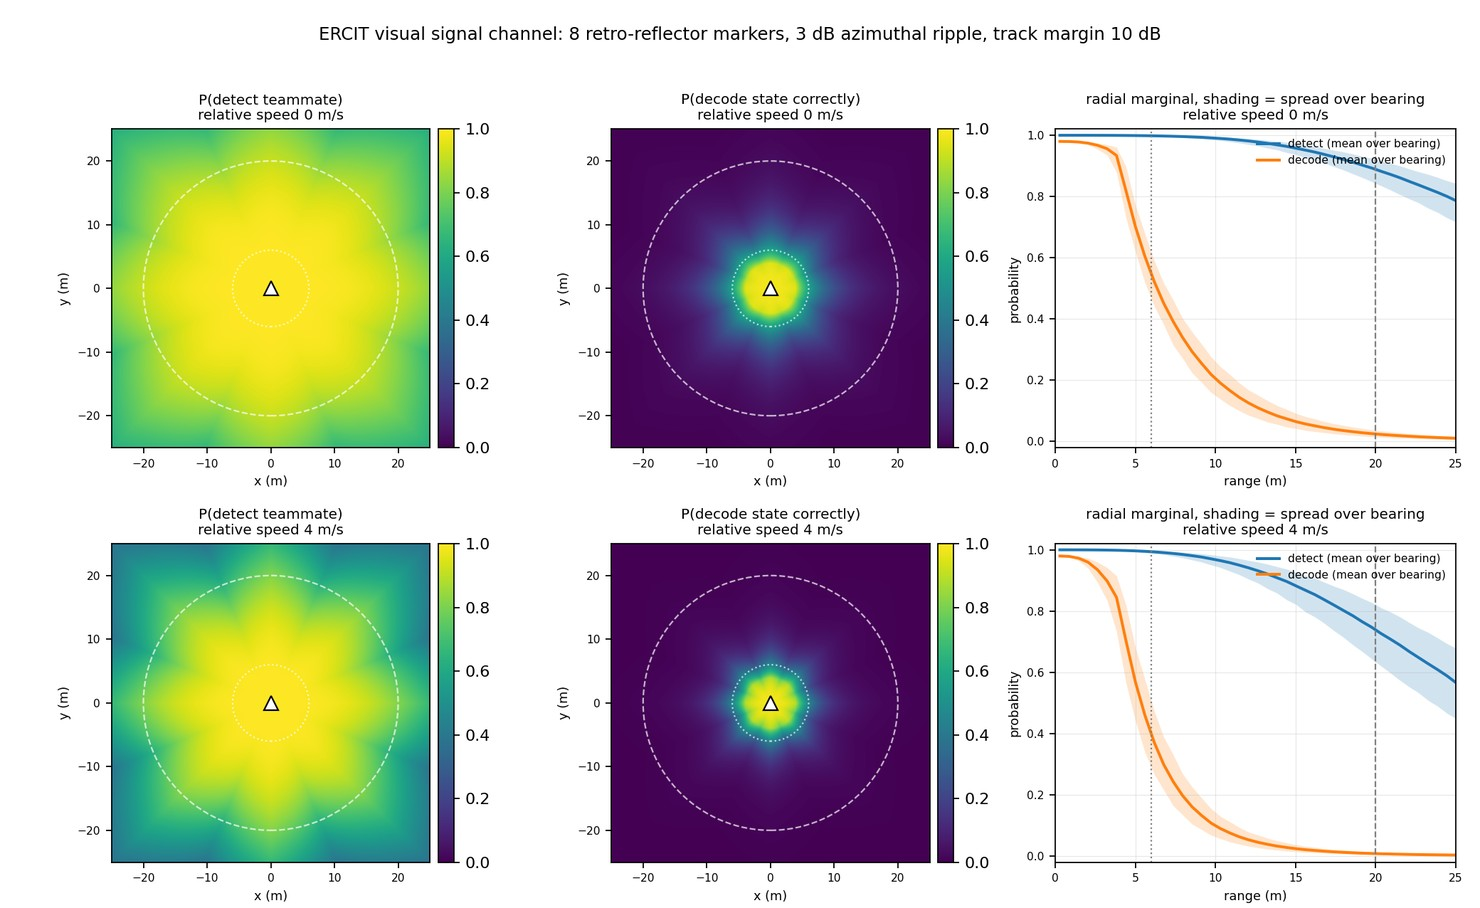
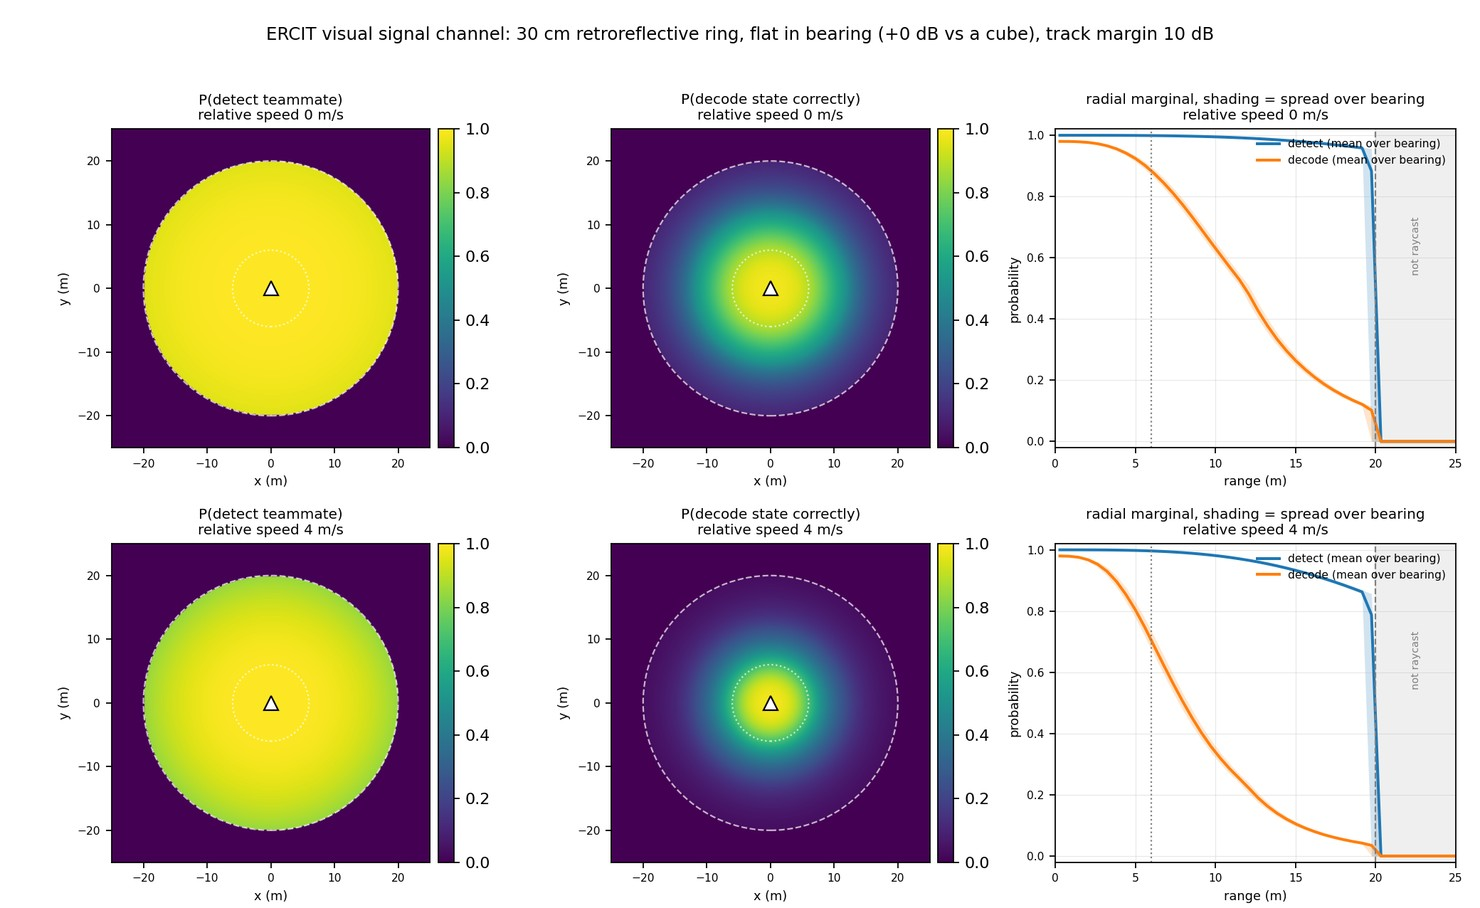
research update

diff --git a/index.html b/index.html
@@ -146,6 +146,7 @@ li::marker{color:var(--blue)}
 figure{margin:24px 0;background:var(--blue-soft);border:1px solid var(--rule);
   border-radius:3px;overflow:hidden}
 figure img{display:block;width:100%;height:auto;background:#fff}
+figure svg{display:block;width:100%;height:auto;padding:14px 10px 6px;background:var(--blue-soft)}
 figcaption{font-family:"IBM Plex Mono",ui-monospace,monospace;font-size:12px;
   line-height:1.6;color:var(--ink-2);padding:11px 15px;background:var(--blue-soft);
   border-top:1px solid var(--rule)}
@@ -303,9 +304,9 @@ footer{position:relative;border-top:4px solid transparent;
     <div>
   <h2>Embodied LiDAR Signaling for RF-Silent Multi-Robot Persistent Search and Revisit</h2>
 
-  <p>In mass-casualty incidents and search-and-rescue operations, initial assessment and triage are time constrained and often take place in dangerous, occluded environments. Autonomous robots are well suited to survey collapsed structures, disaster zones, and contested areas ahead of responders, but only if they can deploy without infrastructure, coordinate efficiently, and keep operating when communications are degraded or denied.</p>
+  <p>In mass-casualty and search-and-rescue incidents, triage is time constrained and happens in dangerous, occluded places. Robots are well suited to survey them ahead of responders, but only if they deploy without infrastructure and keep working when communications are denied.</p>
 
-  <p>This thesis investigates whether a team of LiDAR-equipped aerial robots can cooperatively perform a persistent triage task, searching an unknown, obstructed, GPS- and radio-denied area for many casualties and repeatedly revisiting them for continuous health monitoring, coordinating only through a physical, LiDAR-based signaling channel and world-model-based reasoning.</p>
+  <p>This thesis focuses on how a team of LiDAR-equipped aerial robots can search a GPS- and radio-denied area for casualties and keep revisiting them to monitor their condition, coordinating through a physical signaling channel rather than radio, which removes the RF signature that enables geolocation. The research is centered on whether a decentralized, model-based learner can exploit a coordination signal that is sparse, short-range and frequently wrong. The signals and their detection are modeled using detection theory with the aim of being physically accurate, but not precise.</p>
 
   <figure>
     <div class="scroll-x"><img src="img/lidar_sense.png" alt="Three panels showing simulated agents in a procedurally generated cave arena, each casting a LiDAR ray fan that stops at walls, with visible and hidden targets marked." loading="lazy"></div>
@@ -314,37 +315,145 @@ footer{position:relative;border-top:4px solid transparent;
 
   <p>This agent coordination problem was inspired by my work during the DARPA Triage Challenge, where setup was only allocated 20 minutes, required numerous cables and computers, and was prone to failure and gaps in communication. An autonomous drone could identify patient locations but lacked the ability to communicate them, interfering with our drones’ ability to coordinate with teaming robots. The communication infrastructure was time consuming, profoundly affected our UAV and UGV coordination and performance, and at times negated our autonomy during outages.</p>
 
-  <p>This research focuses on a physically grounded signaling-and-inference system for multi-agent coordination. Each robot carries retro-reflective markers that when switched periodically can encode a small discrete vocabulary as a temporal blink pattern visible to its teammates via LiDAR. I am investigating how a multi-agent deep reinforcement learning framework built on a DreamerV3-style Recurrent State-Space Model learns jointly to move, to signal, and to infer each observable teammate's intent from their observed signals and positions. I chose to use a model-based algorithm because encounters between teaming robots are sparse and therefore demand sample efficiency, and because its probabilistic latent can encode both its own localization and its teammates’ intents.</p>
+  <p>The environment places N robots in a bounded, obstructed arena holding M casualties, M far greater than N, in grouped but initially unknown locations. At that ratio the team has to divide revisit responsibility rather than sweep together.</p>
 
-  <p>How the channel is read and utilized for cooperation is bounded by detection theory. The initial probability of detecting teaming drones and their signals is simulated via expected SNR given the LiDAR and retro-reflector I chose. A retro-reflector return whose strength falls off with range drives a logistic law for whether a teammate’s marker is tracked at all, a stricter threshold for whether its blink code is decoded, and a confusion model for whether the decoded symbol is the right one. The parameters behind the probability of detection model are based on published measurements, and the beam-sampling term is measured by Monte Carlo against a simulated Ouster OS1 scan pattern.</p>
-
-  <figure class="wide">
-    <div class="scroll-x"><img src="img/channel_coverage.jpg" alt="Six panels: probability of detecting a teammate and probability of decoding its state, mapped over a fifty meter arena at zero and four meters per second of relative speed, with radial marginal curves alongside." loading="lazy"></div>
-    <figcaption>This figure explains the gap between an agent’s ability to track a teammate and its ability to read the signal that teammate is sending at different ranges. There is a bearing component because I model the retro-reflectors as eight circular cat’s-eye reflectors. At the best bearing tracking holds near 0.99 at 10 m and 0.92 at 20 m. Tracking is based on the observer’s ability to find even one LiDAR point that is reflected at a greater intensity across a window of time. Decoding <em>which</em> state a teammate is showing is already a coin flip by 6 to 7 m, because reading a precise signal frequency requires sustained observation over a time window and enough SNR for the true signal to stand out. An agent can therefore know where everyone is while receiving only intermittent information about signals. Dotted ring: 6m, casualty sensing radius. Dashed ring: 20 m, past which the simulator never raycasts teammate visibility at all.</figcaption>
-  </figure>
-
-  <figure class="wide">
-    <div class="scroll-x"><img src="img/channel_mc.jpg" alt="Two plots against closest approach distance: decoded signal to noise ratio over the decode window, and the percentage of scans returning at least one beam on the marker, each at two and four meters per second." loading="lazy"></div>
-    <figcaption>Signal SNR is not monotonic in range. It peaks near 3 m and falls off on both sides. Close in, noise grows with signal and fast movement drags the marker through several retro-reflective lobes inside the decode window. Vertical sampling also significantly limits detection at distance: a 10 cm reflector band at 20 m subtends 0.29° against 1.45° of channel spacing, so about four scans in five return nothing at all.</figcaption>
-  </figure>
-
-
-
-  <p>A team of N robots with M patients/targets, where M is much greater than N, operate in a bounded, obstructed arena in grouped but initially unknown locations. Dividing revisit responsibility is encouraged when patients greatly outnumber agents.</p>
-
-      <figure>
+  <figure>
     <img src="img/target_discovery.png" alt="A cave arena with two agents, showing five of forty-seven targets discovered and the rest still unknown." loading="lazy">
     <figcaption>Far more targets than robots. Each discovered casualty carries an idleness clock, so the team has to keep coming back rather than simply finding everything once.</figcaption>
   </figure>
 
-      <p>Agents do not have access to GPS or other sensors that correct their true location state, and never share maps. Each agent has a privately built map that is subject to drift error. An agent discovering a patient is unshared information unless the agent is within view of another agent that can detect its signaling.</p>
+  <p>Agents have no GPS or any other correction on their true pose, never share maps, and each builds its own, subject to drift. A discovery stays private unless another agent is close enough to read the signal.</p>
 
-      <figure>
+  <figure>
     <div class="scroll-x"><img src="img/belief_vs_truth.png" alt="Side by side comparison of one agent's believed occupancy map against the true arena geometry, with true and estimated agent positions marked." loading="lazy"></div>
-    <figcaption>What one agent believes, next to what is actually there. Pose comes from a drift-injecting surrogate rather than ground truth, so the map smears the way a real one does when odometry is the only thing holding the frame together.</figcaption>
+    <figcaption>What one agent believes, next to what is actually there. Pose is imperfect: noise and bias are injected rather than passed through from ground truth.</figcaption>
   </figure>
 
-  
+  <p>The signal the training environment models is a switched retro-reflective band. “Blinking” at a fixed rate, it encodes a small discrete vocabulary into the LiDAR returns that can be decoded by teammates using Fourier analysis. The vocabulary is deterministic: a found-here beacon fires on discovering casualties no one has logged, an observing beacon on refreshing one that had gone stale. How well the channel carries is set by a detection model: an expected-SNR law determines the range and accuracy.</p>
+
+  <figure class="wide">
+<svg viewBox="0 0 790 410" role="img" aria-label="The signaling airframe and its switch. Left: a quadrotor with an Ouster OS1 lidar on a mast and a 300 mm retro-reflective band around the hull. Right: a cross-section through the band wall in three states. Open, the tape faces outward over the full height. Folding, the top and bottom quarters swing outward about their hinges. Closed, the quarters lie against the middle half with their absorbent backs facing out, so no tape is visible. Switching between open and closed at a fixed rate produces the blink pattern a teammate decodes over a 1.5 second window.">
+  <defs>
+    <marker id="fb-ar" viewBox="0 0 10 10" refX="9" refY="5" markerWidth="5" markerHeight="5" orient="auto-start-reverse">
+      <path d="M0 0 L10 5 L0 10 z" fill="currentColor"/>
+    </marker>
+    <pattern id="fb-tape" width="7" height="7" patternTransform="rotate(45)" patternUnits="userSpaceOnUse">
+      <rect width="7" height="7" fill="#FFD100"/>
+      <line x1="0" y1="0" x2="0" y2="7" stroke="#A98700" stroke-width="2.4"/>
+    </pattern>
+  </defs>
+
+  <g font-family="'IBM Plex Sans',Helvetica,Arial,sans-serif" font-size="11" fill="currentColor">
+
+    <!-- ===================== AIRFRAME ===================== -->
+    <g transform="translate(22,0)">
+    <rect x="106" y="54" width="28" height="24" rx="3" fill="none" stroke="currentColor" stroke-width="1.6"/>
+    <line x1="106" y1="66" x2="134" y2="66" stroke="currentColor" stroke-width="1" stroke-dasharray="2 2"/>
+    <rect x="116" y="78" width="8" height="64" fill="none" stroke="currentColor" stroke-width="1.4"/>
+    <text x="142" y="68" font-size="10.5" opacity=".75">Ouster OS1</text>
+
+    <line x1="84" y1="144" x2="38" y2="118" stroke="currentColor" stroke-width="2.2"/>
+    <line x1="156" y1="144" x2="202" y2="118" stroke="currentColor" stroke-width="2.2"/>
+    <rect x="31" y="106" width="14" height="14" rx="2" fill="none" stroke="currentColor" stroke-width="1.5"/>
+    <rect x="195" y="106" width="14" height="14" rx="2" fill="none" stroke="currentColor" stroke-width="1.5"/>
+    <ellipse cx="38"  cy="104" rx="41" ry="4" fill="none" stroke="currentColor" stroke-width="1.6"/>
+    <ellipse cx="202" cy="104" rx="41" ry="4" fill="none" stroke="currentColor" stroke-width="1.6"/>
+
+    <line x1="100" y1="200" x2="82"  y2="286" stroke="currentColor" stroke-width="1.8"/>
+    <line x1="140" y1="200" x2="158" y2="286" stroke="currentColor" stroke-width="1.8"/>
+    <line x1="70"  y1="286" x2="94"  y2="286" stroke="currentColor" stroke-width="2.2"/>
+    <line x1="146" y1="286" x2="170" y2="286" stroke="currentColor" stroke-width="2.2"/>
+
+    <rect x="84" y="142" width="72" height="98" rx="3" fill="url(#fb-tape)" stroke="currentColor" stroke-width="1.6"/>
+    <line x1="60" y1="142" x2="60" y2="240" stroke="currentColor" stroke-width="1" marker-start="url(#fb-ar)" marker-end="url(#fb-ar)"/>
+    <text x="52" y="195" text-anchor="end" font-size="11" font-variant-numeric="tabular-nums">300 mm</text>
+
+    <text x="120" y="312" text-anchor="middle" font-size="10.5" opacity=".7">~500 mm class quadrotor</text>
+    </g>
+
+    <!-- ===================== FOLD, CROSS-SECTION ===================== -->
+    <text x="520" y="34" text-anchor="middle" font-size="11" font-weight="600" letter-spacing=".07em">SECTION THROUGH THE BAND WALL</text>
+
+    <!-- state 1 : open -->
+    <g>
+      <rect x="330" y="80" width="9"  height="150" fill="#6E767F" stroke="currentColor" stroke-width="1.2"/>
+      <rect x="339" y="80" width="7"  height="150" fill="url(#fb-tape)" stroke="currentColor" stroke-width="1.2"/>
+      <line x1="322" y1="117.5" x2="352" y2="117.5" stroke="currentColor" stroke-width="1" stroke-dasharray="3 2"/>
+      <line x1="322" y1="192.5" x2="352" y2="192.5" stroke="currentColor" stroke-width="1" stroke-dasharray="3 2"/>
+      <circle cx="330" cy="117.5" r="2.6" fill="currentColor"/>
+      <circle cx="330" cy="192.5" r="2.6" fill="currentColor"/>
+      <text x="316" y="102" text-anchor="end" font-size="10" opacity=".7">¼</text>
+      <text x="316" y="159" text-anchor="end" font-size="10" opacity=".7">½</text>
+      <text x="316" y="217" text-anchor="end" font-size="10" opacity=".7">¼</text>
+      <text x="337" y="254" text-anchor="middle" font-size="10.5" font-weight="600">open</text>
+      <text x="337" y="269" text-anchor="middle" font-size="10" opacity=".7">tape out</text>
+    </g>
+
+    <!-- state 2 : folding -->
+    <g>
+      <rect x="490" y="117.5" width="9" height="75" fill="#6E767F" stroke="currentColor" stroke-width="1.2"/>
+      <rect x="499" y="117.5" width="7" height="75" fill="url(#fb-tape)" stroke="currentColor" stroke-width="1.2"/>
+      <g transform="rotate(118 494.5 117.5)">
+        <rect x="490" y="80" width="9" height="37.5" fill="#6E767F" stroke="currentColor" stroke-width="1.2"/>
+        <rect x="499" y="80" width="7" height="37.5" fill="url(#fb-tape)" stroke="currentColor" stroke-width="1.2"/>
+      </g>
+      <g transform="rotate(-118 494.5 192.5)">
+        <rect x="490" y="192.5" width="9" height="37.5" fill="#6E767F" stroke="currentColor" stroke-width="1.2"/>
+        <rect x="499" y="192.5" width="7" height="37.5" fill="url(#fb-tape)" stroke="currentColor" stroke-width="1.2"/>
+      </g>
+      <path d="M494.5 86 A 31.5 31.5 0 0 1 522 133" fill="none" stroke="currentColor" stroke-width="1.3" marker-end="url(#fb-ar)"/>
+      <path d="M494.5 224 A 31.5 31.5 0 0 0 522 177" fill="none" stroke="currentColor" stroke-width="1.3" marker-end="url(#fb-ar)"/>
+      <circle cx="494.5" cy="117.5" r="2.6" fill="currentColor"/>
+      <circle cx="494.5" cy="192.5" r="2.6" fill="currentColor"/>
+      <text x="497" y="254" text-anchor="middle" font-size="10.5" font-weight="600">folding</text>
+      <text x="497" y="269" text-anchor="middle" font-size="10" opacity=".7">quarters swing out, 0.15 s</text>
+    </g>
+
+    <!-- state 3 : closed -->
+    <g>
+      <rect x="648" y="117.5" width="9" height="75" fill="#6E767F" stroke="currentColor" stroke-width="1.2"/>
+      <rect x="657" y="117.5" width="7" height="75" fill="url(#fb-tape)" stroke="currentColor" stroke-width="1.2"/>
+      <rect x="664" y="117.5" width="7" height="37.5" fill="url(#fb-tape)" stroke="currentColor" stroke-width="1.2"/>
+      <rect x="671" y="117.5" width="9" height="37.5" fill="#6E767F" stroke="currentColor" stroke-width="1.2"/>
+      <line x1="662" y1="155" x2="682" y2="155" stroke="currentColor" stroke-width="1.6"/>
+      <rect x="664" y="155"   width="7" height="37.5" fill="url(#fb-tape)" stroke="currentColor" stroke-width="1.2"/>
+      <rect x="671" y="155"   width="9" height="37.5" fill="#6E767F" stroke="currentColor" stroke-width="1.2"/>
+      <circle cx="648" cy="117.5" r="2.6" fill="currentColor"/>
+      <circle cx="648" cy="192.5" r="2.6" fill="currentColor"/>
+      <line x1="690" y1="117.5" x2="690" y2="192.5" stroke="currentColor" stroke-width="1" marker-start="url(#fb-ar)" marker-end="url(#fb-ar)"/>
+      <text x="698" y="158" font-size="10" opacity=".7">150 mm</text>
+      <text x="662" y="254" text-anchor="middle" font-size="10.5" font-weight="600">closed</text>
+      <text x="662" y="269" text-anchor="middle" font-size="10" opacity=".7">absorbent out, tape trapped</text>
+    </g>
+
+    <!-- key -->
+    <rect x="330" y="288" width="16" height="8" fill="url(#fb-tape)" stroke="currentColor" stroke-width="1"/>
+    <text x="352" y="296" font-size="10" opacity=".75">retro-reflective tape</text>
+    <rect x="470" y="288" width="16" height="8" fill="#6E767F" stroke="currentColor" stroke-width="1"/>
+    <text x="492" y="296" font-size="10" opacity=".75">absorbent backing</text>
+
+    <!-- ===================== BLINK ===================== -->
+    <line x1="330" y1="378" x2="760" y2="378" stroke="currentColor" stroke-width="1.2"/>
+    <polyline points="330,378 330,326 372,326 372,378 414,378 414,326 456,326 456,378 498,378 498,326 540,326 540,378 582,378 582,326 624,326 624,378 666,378 666,326 708,326 708,378 750,378 750,326 760,326"
+              fill="none" stroke="#C9A200" stroke-width="2.8" stroke-linejoin="round"/>
+    <text x="322" y="330" text-anchor="end" font-size="10" opacity=".7">open</text>
+    <text x="322" y="382" text-anchor="end" font-size="10" opacity=".7">closed</text>
+    <line x1="330" y1="316" x2="540" y2="316" stroke="currentColor" stroke-width="1" marker-start="url(#fb-ar)" marker-end="url(#fb-ar)" opacity=".7"/>
+    <text x="548" y="320" font-size="10" opacity=".75">1.5 s decode window — the rate is the symbol</text>
+  </g>
+</svg>
+    <figcaption>The modeled marker: tape on one face, absorbent backing on the other. Open it shows tape at every bearing; closed, the quarters fold back so only backing faces out. Blinking between the two is the signal. Proposed hardware, not yet built.</figcaption>
+  </figure>
+
+  <figure class="wide">
+    <div class="scroll-x"><img src="img/channel_coverage.jpg" alt="Six panels: probability of detecting a teammate and probability of decoding its state, mapped over a fifty meter arena at zero and four meters per second of relative speed, with radial marginal curves alongside." loading="lazy"></div>
+    <figcaption>What the learner has to cope with. A teammate can be tracked almost to the 20 m limit while what it is saying is unreadable past about 12 m, and past 8 m once the pair is closing at 4 m/s. Agents know where each other are far more often than they know what each other mean. Dotted ring: 6 m casualty sensing. Dashed: the simulator’s 20 m visibility limit.</figcaption>
+  </figure>
+
+  <p>The learner is a multi-agent deep reinforcement learning framework built on a DreamerV3-style Recurrent State-Space Model, trained to move and to infer each observable teammate’s intent from how it sees them act. I chose a model-based algorithm because encounters between robots are sparse, because the information it receives is environment-dependent and imperfect, and because its probabilistic latent can hold both an agent’s own localization and its teammates’ intents.</p>
+
+  <p>The aim is to measure how the signaling can affect teaming behavior. How much of the gap between a scripted patrol and an agent given perfect knowledge of the arena does a sparse, unreliable signal close? How much of that comes from the world model’s prediction of its teammates rather than from the signal alone? And how much of it survives when detection degrades, the geometry is unfamiliar, or the team is a size the agents never trained on?</p>
+
     </div>
   </div>
 </section>
